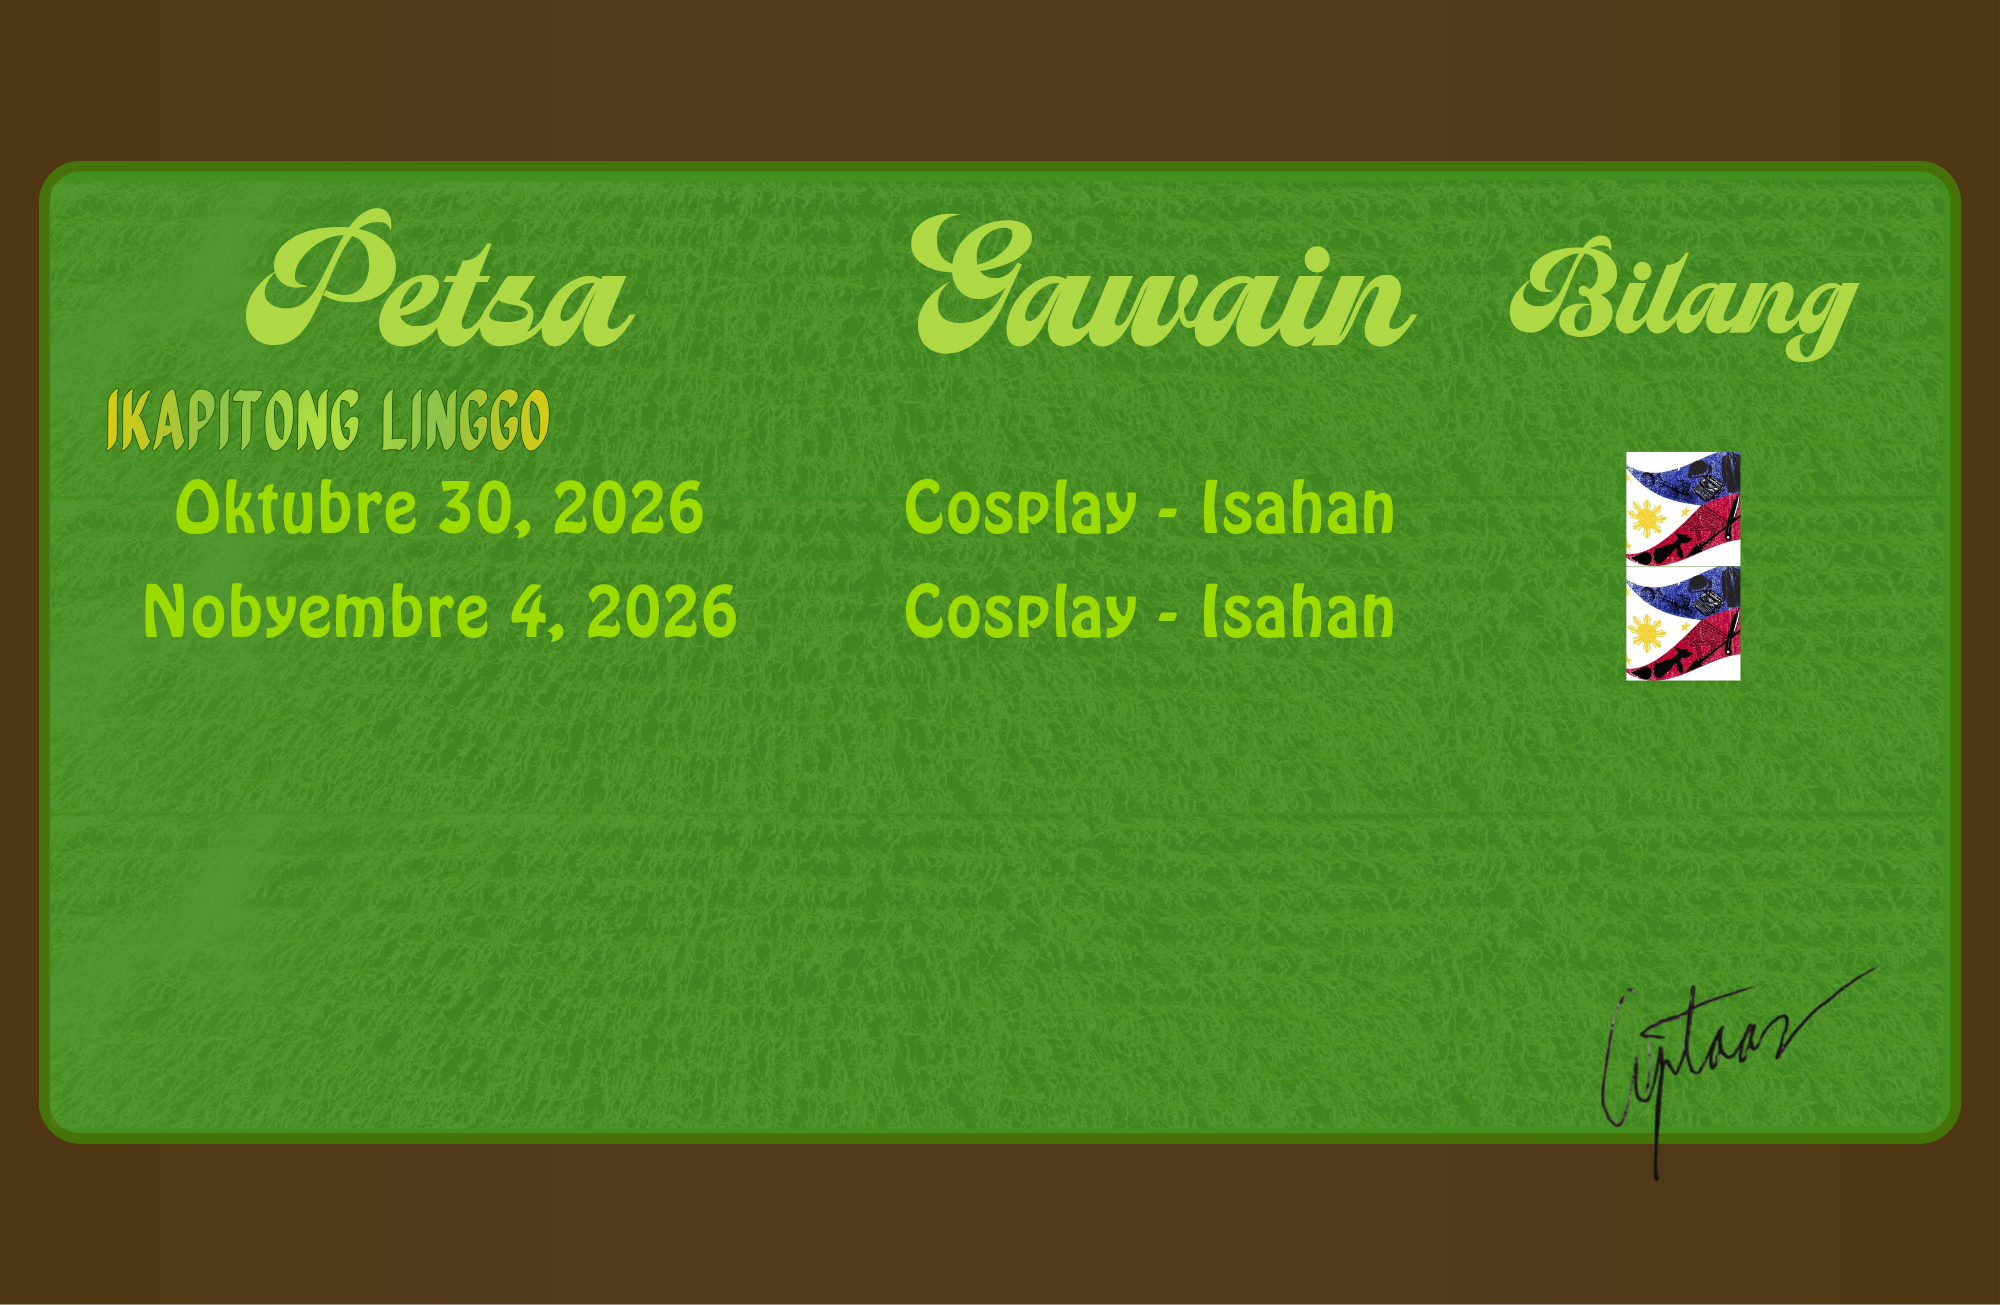
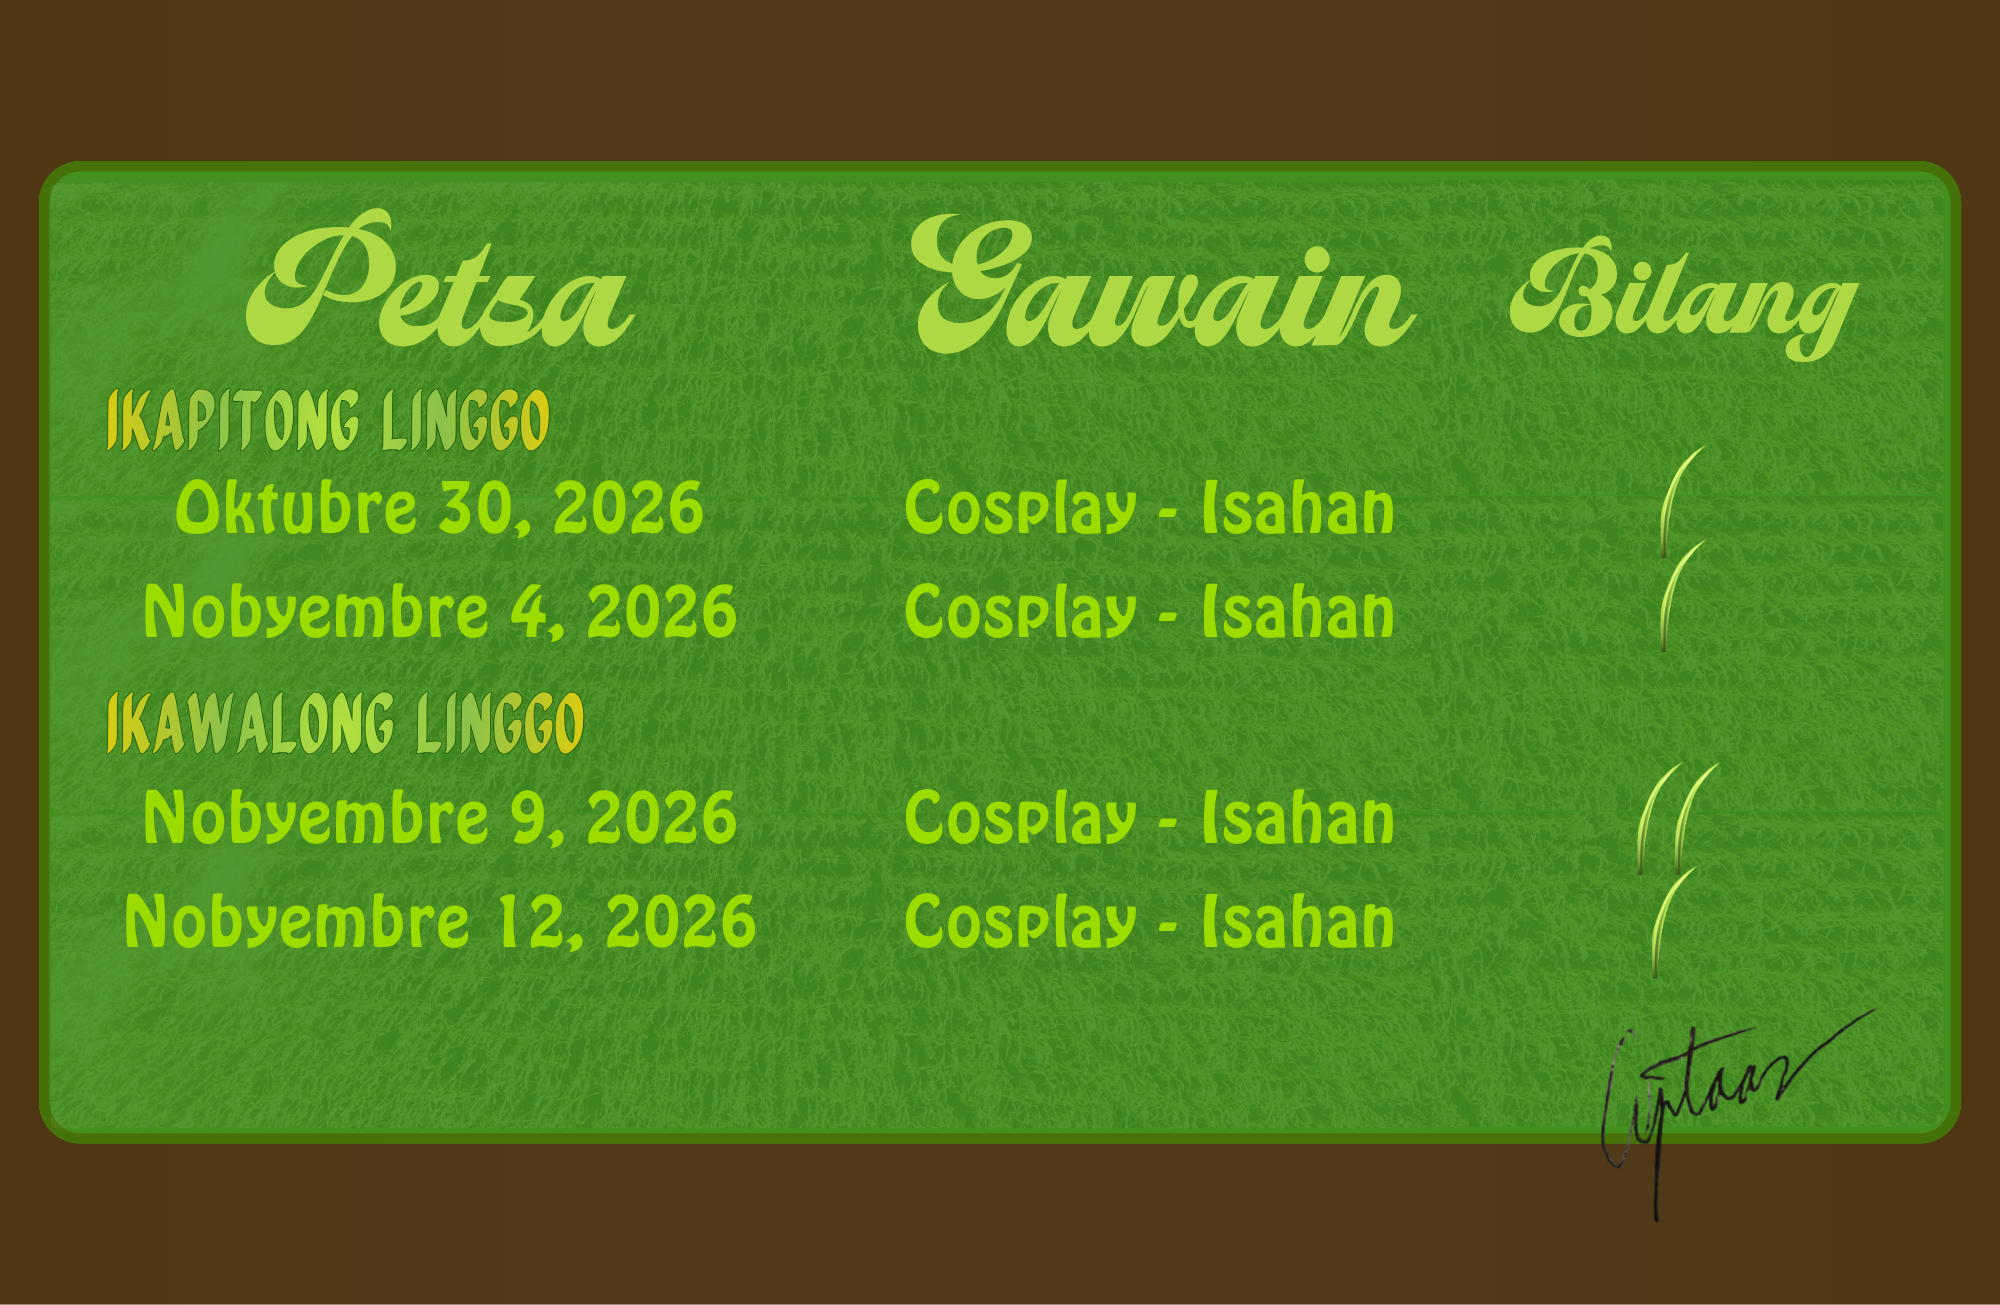
Add files via upload

diff --git a/index2.html b/index2.html
@@ -12,7 +12,7 @@
       Maayong hapon Bb. Ma. Kathleen Adona!
     </div>
    
-    <h3 id="h3">Ikapitong linggo ng Pakikilahok</h3>
+    <h3 id="h3">Ikawalong linggo ng Pakikilahok</h3>
    
     <a class="btn" href="index3.html">Puntahan</a>
     
